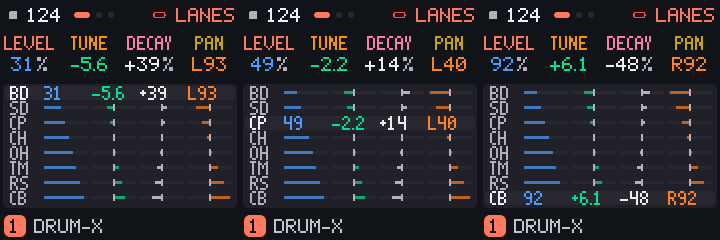
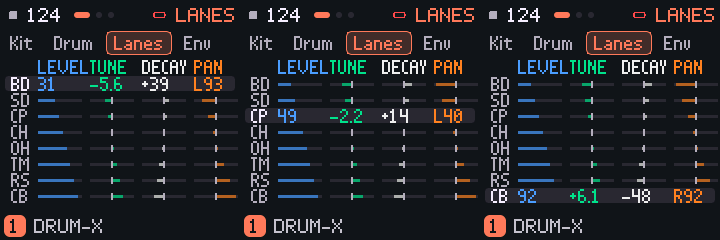
Step 5: the review's fixes (the table under the sheets' tabs), tests, UI_BUILD as built

Changed region(s): [[0.0, 0.1167, 1.0, 0.875]]

diff --git a/tests/mixer_test.c b/tests/mixer_test.c
@@ -1,0 +1,70 @@
+/* SPDX-License-Identifier: GPL-3.0-only
+ * Copyright 2026 Jeremiah Conner. */
+/* The new interface, step 6 (docs/orangecat/UI_BUILD.md "Step 6: the mixer in the knobs' colors") with OC_MIXER=1, through tests/ui_test.c's
+ * host UI, by the pixels of the screen.
+ *   cc -O1 -w -DOC_HOME_PIC=1 -DOC_EDIT_SHEETS=1 -DOC_SHIFT_MAP=1 -DOC_STEP_PAGES=1 -DOC_LANES=1 -DOC_MIXER=1 -DMELODEE_USB_AUDIO=1 -Ibuild/gen -Ifirmware/src -Itests -o mixer_test tests/mixer_test.c -lm
+ * Checked:
+ *   BAR     every track's level bar is KNOB 1's color (more than a bar's pixels in it), not the track's
+ *   KNOBS   a knob just turned shows its value in its own color: PAN green, MUTE orange (the card's color for KNOB 2 and 4)
+ *   MUTED   a muted track's bar is dim, not blue
+ *   KEEP    the numerals stay the track's colors; the knobs still do release-2's jobs (LEVEL, PAN, MUTE of the selected track)
+ * Revisions:
+ *   (the new interface 0.6, branch ui-build) first version.
+ */
+#define UI_TEST_NO_MAIN 1
+#include "ui_test.c"
+
+static int nbad;
+static void chk(const char *what, int ok)
+{
+    printf("mixer: %-100s %s\n", what, ok ? "ok" : "FAIL");
+    nbad += !ok;
+}
+static uint32_t count(uint16_t c, uint32_t y0, uint32_t y1)
+{
+    uint32_t n = 0, x, y;
+    c = (uint16_t)((c >> 8) | (c << 8));                /* (the host screen holds the panel's byte order) */
+    for (y = y0; y < y1; y++)
+        for (x = 0; x < 240u; x++)
+            n += host_screen[y * 240u + x] == c;
+    return n;
+}
+int main(void)
+{
+#if !OC_MIXER
+    printf("mixer: built without OC_MIXER\n");
+    return 0;
+#else
+    int32_t lvl0, pan0;
+    setvbuf(stdout, NULL, _IONBF, 0);
+    ui_power_on();
+    stop_transport();
+    go_title("MIXER");
+    ui.force = 1;
+    frames(200);
+    chk("BAR     the level bars are KNOB 1's blue", count(T_COZY(0), 30, 240) > 4u * 60u);
+    {
+        uint16_t c1 = T_COZY(1), c3 = T_COZY(3);
+        uint32_t g0 = count(c1, 30, 240), o0 = count(c3, 30, 240);
+        pan0 = TSEL->p[P_PAN];
+        turn(EN_K2, 5);
+        frames(50);
+        chk("KNOBS   KNOB 2 turned: the pan in KNOB 2's green", TSEL->p[P_PAN] == pan0 + 5 && count(c1, 30, 240) > g0);
+        lvl0 = TSEL->p[P_MUTE];
+        turn(EN_K4, 1);
+        frames(50);
+        chk("KNOBS   KNOB 4 turned: still the track's mute, its word in KNOB 4's orange", TSEL->p[P_MUTE] != lvl0 && count(c3, 30, 240) > o0);
+        chk("MUTED   a muted track's bar is not blue", count(T_COZY(0), 30, 240) < 4u * 60u);
+        turn(EN_K4, -1);
+        frames(50);
+    }
+    {
+        uint32_t lv = trk_level(song.sel);
+        turn(EN_K1, 4);
+        frames(50);
+        chk("KEEP    KNOB 1 is still the selected track's level", trk_level(song.sel) != lv);
+    }
+    printf("mixer: %d failed\n", nbad);
+    return nbad != 0;
+#endif
+}

diff --git a/firmware/src/ui_lanes.c b/firmware/src/ui_lanes.c
@@ -41,29 +41,33 @@ static void lanes_bar(int32_t x, int32_t y, uint32_t c, int32_t v, uint16_t col,
     cv_rect(x + 21, y + 3, 2, 7, T_MID);
     (void)bg;
 }
-/* the table, on the panel draw_graph made (cv_oy 0, from x 3, graph_h 124 high): eight rows of 15 px */
-static void graph_lanes(const track_t *t, uint16_t c)
+/* the table, in the panel pv_draw makes under the sheets' tabs (ui_pages.c pv_lanes; h rows high, from x 2): the headings, then eight
+ * rows, the picked lane's with its four numbers (no units: the cards say them), the others' bars */
+static void graph_lanes(const track_t *t, int32_t h)
 {
+    static const char *const HEAD[4] = {"LEVEL", "TUNE", "DECAY", "PAN"};
     uint32_t l, k;
-    (void)c;
+    int32_t rh = (h - 22) / 8;
+    for (k = 0; k < 4u; k++)                            /* the headings, in the knobs' colors (they stand where release-2's cards were) */
+        cv_text_on(36 + (int32_t)k * 52, ty_y(9, TY_LB), TY_LB, HEAD[k], T_COZY(k), T_PANEL);
     for (l = 0; l < NLANE; l++) {
-        int32_t y = 2 + (int32_t)l * 15;
+        int32_t y = 18 + (int32_t)l * rh;
         int sel = l == (ui.lane & 7u);
-        uint16_t row = sel ? T_LIFT : T_SURF;
+        uint16_t row = sel ? T_LIFT : T_PANEL;
         if (sel)
-            cv_rrect(5, y, 230, 14, 4, T_LIFT, T_SURF);
-        cv_text_on(10, ty_y(y + 7, TY_LB), TY_LB, drum_lane_abbr(t, l), sel ? T_TEXT : T_MID, row);
+            cv_rrect(3, y, 230, rh - 1, 4, T_LIFT, T_PANEL);
+        cv_text_on(9, ty_y(y + rh / 2, TY_LB), TY_LB, drum_lane_abbr(t, l), sel ? T_TEXT : T_MID, row);
         for (k = 0; k < 4u; k++) {
-            int32_t x = 44 + (int32_t)k * 48, v = dxl_value(song.sel, l, LANES_ID[k]);
+            int32_t x = 36 + (int32_t)k * 52, v = dxl_value(song.sel, l, LANES_ID[k]);
             if (sel) {
                 char b[12];
                 const char *unit;
                 int16_t *vp;
-                const param_desc_t *d = dxl_desc(song.sel, l, LANES_ID[k], k, &vp);
+                const param_desc_t *d = dxl_desc(song.sel, l, LANES_ID[k], k, &vp);   /* (the card k's own descriptor: the same lane, the same id) */
                 param_format(d, v, b, &unit);
-                cv_text_on(x, ty_y(y + 7, TY_LB), TY_LB, b, T_COZY(k), row);
+                cv_text_on(x, ty_y(y + rh / 2, TY_LB), TY_LB, b, T_COZY(k), row);
             } else {
-                lanes_bar(x, y, k, v, ux_mix(T_SURF, T_COZY(k), 70), row);
+                lanes_bar(x, y + (rh - 11) / 2, k, v, ux_mix(T_PANEL, T_COZY(k), 70), row);
             }
         }
     }

diff --git a/firmware/src/ui_pages.c b/firmware/src/ui_pages.c
@@ -52,7 +52,7 @@ static uint32_t pv_kind(void)
         pg->graph == GR_FMPEG)
         return PV_CURVE;
     if (pg->graph == GR_NONE || pg->graph == GR_ARP || pg->graph == GR_STEPS ||
-        pg->graph == GR_CHORD)
+        pg->graph == GR_CHORD || pg->graph == GR_LANES)   /* (GR_LANES: the new interface 0.5; GR_NONE with the switch off) */
         return PV_RINGS;
     if (pg->graph == GR_TRK)
         return PV_MIXER;
@@ -741,6 +741,9 @@ static void pv_strip(uint32_t k)
     }
 }
 
+#if OC_LANES
+static void pv_lanes(int32_t h) { graph_lanes(TSEL, h); }   /* (the new interface 0.5) pv_panel's drawing of DRUM-X's LANES table */
+#endif
 /* ----------------------------------------------------------- draw --- */
 static void pv_draw(void)
 {
@@ -841,6 +844,10 @@ static void pv_draw(void)
         sec_note();
     card_y = Y_LABEL + pv_tab_h;
     col_style = CS_CARD;
+#if OC_LANES
+    if (kind == PV_RINGS && cur_page()->graph == GR_LANES) {   /* (the new interface 0.5: the table's headings stand for the cards) */
+    } else
+#endif
 #if OC_EDIT_SHEETS
     {   /* (the new interface 0.2) a sheet's row: its labels in the knobs' colors (the cozies, step 1's T_COZY) */
         int row = !designer_on() && !page_over && !ui.home && sh_row(ui.page);
@@ -863,8 +870,17 @@ static void pv_draw(void)
         int32_t sh_c, sh_r;                             /* (the new interface 0.2) the sheet's other row and the box where
                                                          * the picture would be the scope or the wave; the filter's curve
                                                          * and FM6's chart are kept (they say what the knobs do) */
-        uint32_t sh_p = kind == PV_RINGS && !designer_on() ? pv_pic(&sh_c, &sh_r) : 3u;
+        uint32_t sh_p = kind == PV_RINGS && !designer_on() && cur_page()->graph != GR_LANES ? pv_pic(&sh_c, &sh_r) : 3u;   /* (LANES: its table) */
         if (sh_p != 3u && sh_p != 4u && sh_lower()) {
+        } else
+#endif
+#if OC_LANES
+        if (kind == PV_RINGS && cur_page()->graph == GR_LANES) {   /* (the new interface 0.5, ui_lanes.c) the eight lanes' table */
+            sig = lanes_sig() ^ (uint32_t)pv_tab_h * 40503u ^ ux.pal * 31u ^ ux.gen * 977u;
+            if (ui.force || sig != pv.panel) {
+                pv.panel = sig;
+                pv_panel(Y_LABEL + pv_tab_h, PV_SOUND_Y - (Y_LABEL + pv_tab_h), pv_lanes);
+            }
         } else
 #endif
         if (kind == PV_RINGS) {

diff --git a/tests/lanes_test.c b/tests/lanes_test.c
@@ -26,7 +26,7 @@ int main(void)
     printf("lanes: built without OC_LANES\n");
     return 0;
 #else
-    uint32_t l, k, i;
+    uint32_t l, k, i, x, y;
     int32_t before[8][4];
     setvbuf(stdout, NULL, _IONBF, 0);
     ui_power_on();
@@ -60,8 +60,21 @@ int main(void)
         turn(EN_K2, 2);
         chk("DRAW    the page's signature follows a kit value", lanes_sig() != s0);
     }
-    for (l = 0; l < 8u; l++) { drum_pick_lane(l); ui.force = 1; frames(32); }
-    chk("DRAW    the table drawn with each lane picked", 1);
+    {
+        int ok = 1;
+        uint32_t prev = 0;
+        for (l = 0; l < 8u; l++) {
+            uint32_t h = 2166136261u;
+            drum_pick_lane(l); ui.force = 1; frames(32);
+            for (y = 100; y < 210u; y++) for (x = 0; x < 240u; x++) h = (h ^ host_screen[y * 240u + x]) * 16777619u;
+            ok &= h != prev;                            /* (the picked lane's row moves: the table is drawn and redrawn) */
+            prev = h;
+        }
+        chk("DRAW    the table under the sheet's tabs changes with each lane picked", ok);
+        ok = 0;
+        for (y = 30; y < 60u; y++) for (x = 0; x < 240u; x++) ok |= host_screen[y * 240u + x] != host_screen[40u * 240u + 1u] ;
+        chk("DRAW    the sheets' tab strip is still drawn above the table", ok);
+    }
     {   /* KEYS: the lane a key struck picks */
         uint32_t key = 5, want = dxe_lane((uint32_t)ENG_DRUMX.keys(TSEL, key));
         drum_pick_lane(want == 0u ? 1u : 0u);

diff --git a/firmware/src/ui_graph.c b/firmware/src/ui_graph.c
@@ -778,10 +778,6 @@ static uint32_t graph_sig(int play)
         h ^= (uint32_t)song.g[G_SWING] * 65537u + pr_held() * 15331u;
         if (play) h ^= (uint32_t)(notes_play_x(t) + 1) * 31u;
     }
-#if OC_LANES
-    if (pg->graph == GR_LANES)                       /* (the new interface 0.5) LANES: the kit's values are not in p[] */
-        h = (h ^ lanes_sig()) * 16777619u;
-#endif
 #if OC_STEP_PAGES
     if (pg->graph == GR_FEEL)                        /* (the new interface 0.4) FEEL: the tiles' values, the cursor, the range */
         h = (h ^ feel_sig(t)) * 16777619u;
@@ -1034,12 +1030,6 @@ static void draw_graph(void)
                 if (grid_on()) graph_grid(t, c);
                 else { proll.play = notes_play_x(t); graph_recorded_notes(t, c); }
                 break;
-#if OC_LANES
-            case GR_LANES:                               /* (the new interface 0.5, ui_lanes.c) */
-                cv_oy = 0;
-                graph_lanes(t, c);
-                break;
-#endif
 #if OC_STEP_PAGES
             case GR_FEEL:                                /* (the new interface 0.4, ui_feel.c) */
                 cv_oy = 0;

diff --git a/firmware/src/ui_draw.c b/firmware/src/ui_draw.c
@@ -759,19 +759,6 @@ static void draw_columns(void)
         }
         return;
     }
-#if OC_LANES
-    if (lanes_page()) {                                 /* (the new interface 0.5, ui_lanes.c) the picked lane's four, in the knobs' colors */
-        static const char *const LN[4] = {"LEVEL", "TUNE", "DECAY", "PAN"};
-        for (c = 0; c < 4u; c++) {
-            int16_t *vp;
-            const param_desc_t *d = page_desc(cur_page(), c, &vp);
-            if (!d) { draw_column(c, "", "", "", T_THEME, -1, ICON_AUTO); continue; }
-            param_format(d, *vp, val, &unit);
-            draw_column(c, LN[c], val, unit, T_COZY(c), RATIO(d, *vp), param_icon(d, *vp));
-        }
-        return;
-    }
-#endif
     for (c = 0; c < 4u; c++) {
         int16_t *vp;
         if (scale_settings_page(cur_page()) && c == 1u) {

diff --git a/docs/orangecat/UI_BUILD.md b/docs/orangecat/UI_BUILD.md
@@ -951,7 +951,7 @@ empty), NOTES' strip and both maps in 8 palettes: 0 lint findings, 0 MONO pixels
 
 ## Step 5: EDIT > LANES
 
-**Status: In progress (code built, in review).** Behind `OC_LANES` (core.h, default 0; needs `OC_STEP_PAGES`). UI_DESIGN.md Part 1
+**Status: Done (host).** Behind `OC_LANES` (core.h, default 0; needs `OC_STEP_PAGES`). UI_DESIGN.md Part 1
 section 5, Part 2 `drum_lanes.png`.
 
 ### 5. EDIT > LANES (design note)
@@ -977,13 +977,28 @@ diff together (decision of this branch, to keep the cost in proportion).
 
 ### 5. The design as built
 
-Built as above. **Flash and RAM (CI's options):** every switch through step 4: 554,688 B; with OC_LANES **557,808 B: +3,120 B**
-(estimate 1,500: the table and the cozy cards cost twice the guess); .data+.bss unchanged; the audio arena 84,064 B (it was 84,288 B:
-224 B, a block boundary of the data bank's neighbor; the minimum is 49,152 B). Switch off: 539,212 B, byte-identical to release-2.
-**Tests:** tests/lanes_test.c (ASan and UBSan, 9 checks): the page, PRESETS both ways and at the ends, the four knobs edit lane 3's
-values and no other lane's, the signature follows a kit value, every lane drawn, a key struck still picks its lane. ui_render.c
-(ui_renders_steps now with OC_LANES=1): the table with lane 1, 3 and 8 picked and the kit moved, in 8 palettes: 0 lint findings, 0 MONO
-pixels off gray. **Mockups:** `step5_sheet.png`, `step5_lanes_1.png`, `step5_lanes_3.png`, `step5_lanes_8.png`, `day_step5_lanes_3.png`.
+Built as the note says, with the review's fixes. **As built the page is the mockup's:** the sheets' tabs, the four headings in the
+knobs' cozy colors (they stand where release-2's cards were), then the eight rows, the picked lane's with its four numbers, and the
+foot (the sound's bar). The page is drawn by `pv_draw`'s RINGS path (`pv_kind`), which keeps the sheets' tab strip.
+**The diff review (an independent agent, October 30, 2026), found and fixed:** (1) the first build drew the table through
+`draw_graph` and the sheets' tab strip vanished on LANES (a step 2 regression: the screens in `step5_*` showed no tabs); the table now
+lives in the RINGS path under the tabs, and the cards give way to the headings (lanes_test checks the tab strip is drawn); (3) the
+tests that could not fail: the table's pixels change with each lane picked and the tab strip is checked. **Accepted and written
+down:** (2) PRESETS picks the lane on LANES (the design's text) so PRESETS no longer turns the sheets there: EDIT and SELECT
+still do; (4) the table shows the numbers without units (the mockup's: the headings say what they are; TUNE is in semitones,
+LEVEL in percent, DECAY and PAN as the cards formatted them); (5) the picked row reads `dxl_desc` and so rewrites the shared
+descriptor of card k with the same lane and id: harmless today (no cards are drawn on this page), noted. The reviewer found correct:
+the value formats, every index masked, the signature covering the kit's 32 values and `p[]`, GR_LANES leaking nowhere, the key pick and
+the edit path untouched, the Melodee DRUM engine's lane pages untouched, switch off identical.
+
+**Flash and RAM (CI's options):** every switch through step 4: 554,688 B; with OC_LANES **557,968 B: +3,280 B** (estimate 1,500; the
+table's two layouts and the headings cost twice the guess); .data+.bss unchanged (94,504 B); the audio arena 84,064 B (was 84,288 B;
+the minimum is 49,152 B). Switch off: 539,212 B, byte-identical to release-2.
+**Tests:** tests/lanes_test.c (ASan and UBSan, 10 checks, 0 failed): the page, PRESETS both ways and at the ends, the four knobs edit lane
+3's values and no other lane's, the signature follows a kit value, the table under the tabs changes with each lane picked, the tab strip is
+drawn, a key struck still picks its lane. ui_render.c (ui_renders_steps now with OC_LANES=1): the table with lane 1, 3 and 8 picked and the
+kit moved, in 8 palettes: 0 lint findings, 0 MONO pixels off gray. **Mockups:** `step5_sheet.png`, `step5_lanes_1.png`, `step5_lanes_3.png`,
+`step5_lanes_8.png`, `day_step5_lanes_3.png`.
 
 ## Step 6: the mixer in the knobs' colors
 
@@ -1106,7 +1121,7 @@ The release-2 merged is 2b46f80 (local head of ~/OrangeCat, fetched read-only). 
 |---|---|---|---|---|---|
 | 1 to 3 | measured | 11,236 | | 26,800 | 18,608 |
 | 4 | the step pages | **4,240 measured** (est. 4,000) | 4,240 | 22,560 | 14,368 |
-| 5 | EDIT > LANES | **3,120 measured** (est. 1,500) | 7,360 | 19,440 | 11,248 |
+| 5 | EDIT > LANES | **3,280 measured** (est. 1,500) | 7,520 | 19,280 | 11,088 |
 | 6 | the mixer in the knobs' colors | 1,200 (raised after step 5) | 8,560 | 18,240 | 10,048 |
 | 7a | fw_pages version 3: the scene and kdef of a module, the loader's check | 1,500 (raised after step 5) | 10,060 | 16,740 | 8,548 |
 | 7b, 7c | the effects' pictures, DUB TAPE's view | removed (Release 3, modules) | | | |
